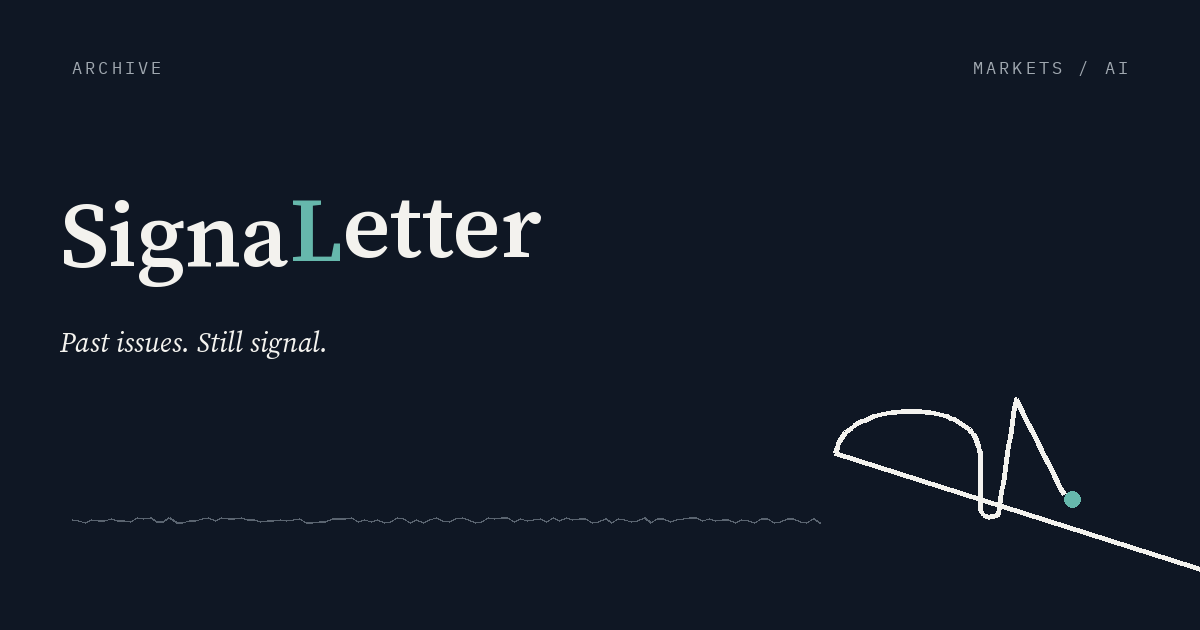
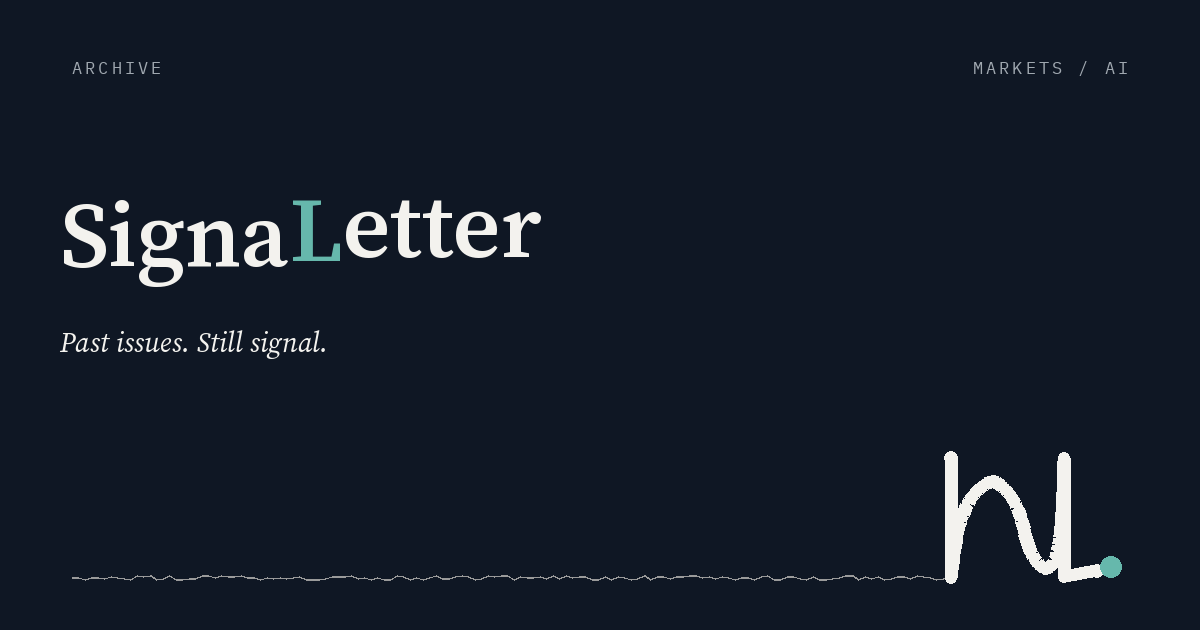
Fix SignaLetter mark path to match PDF crops
Retrace the nL mark from mark-paper.png (cubic beziers, IoU 0.965),
reuse one master path for all brand/favicon variants, and rebuild OG
cards so the bottom noise line flows into the mark with no stray diagonal.

diff --git a/_layouts/default.html b/_layouts/default.html
@@ -10,18 +10,18 @@
   <meta name="apple-mobile-web-app-title" content="{{ site.title }}">
   {% include social-meta.html %}
   <link rel="manifest" href="{{ '/site.webmanifest' | relative_url }}">
-  <link rel="icon" href="{{ '/assets/icons/favicon.svg' | relative_url }}?v=4" type="image/svg+xml">
-  <link rel="icon" href="{{ '/assets/icons/favicon.ico' | relative_url }}?v=4" sizes="any">
-  <link rel="apple-touch-icon" href="{{ '/assets/icons/apple-touch-icon.png' | relative_url }}?v=4">
-  <link rel="icon" type="image/png" sizes="192x192" href="{{ '/assets/icons/icon-192.png' | relative_url }}?v=4">
-  <link rel="icon" type="image/png" sizes="512x512" href="{{ '/assets/icons/icon-512.png' | relative_url }}?v=4">
-  <link rel="stylesheet" href="{{ '/assets/css/fonts.css' | relative_url }}?v=4">
-  <link rel="stylesheet" href="{{ '/assets/css/style.css' | relative_url }}?v=4">
+  <link rel="icon" href="{{ '/assets/icons/favicon.svg' | relative_url }}?v=5" type="image/svg+xml">
+  <link rel="icon" href="{{ '/assets/icons/favicon.ico' | relative_url }}?v=5" sizes="any">
+  <link rel="apple-touch-icon" href="{{ '/assets/icons/apple-touch-icon.png' | relative_url }}?v=5">
+  <link rel="icon" type="image/png" sizes="192x192" href="{{ '/assets/icons/icon-192.png' | relative_url }}?v=5">
+  <link rel="icon" type="image/png" sizes="512x512" href="{{ '/assets/icons/icon-512.png' | relative_url }}?v=5">
+  <link rel="stylesheet" href="{{ '/assets/css/fonts.css' | relative_url }}?v=5">
+  <link rel="stylesheet" href="{{ '/assets/css/style.css' | relative_url }}?v=5">
   <link rel="stylesheet" href="{{ '/assets/css/ai-skim.css' | relative_url }}">
-  <link rel="stylesheet" href="{{ '/assets/css/ai-cards.css' | relative_url }}?v=4">
-  <link rel="stylesheet" href="{{ '/assets/css/nav.css' | relative_url }}?v=4">
+  <link rel="stylesheet" href="{{ '/assets/css/ai-cards.css' | relative_url }}?v=5">
+  <link rel="stylesheet" href="{{ '/assets/css/nav.css' | relative_url }}?v=5">
   <link rel="stylesheet" href="{{ '/assets/css/share.css' | relative_url }}">
-  <link rel="stylesheet" href="{{ '/assets/css/markets.css' | relative_url }}?v=4">
+  <link rel="stylesheet" href="{{ '/assets/css/markets.css' | relative_url }}?v=5">
   <link rel="alternate" type="application/atom+xml" title="{{ site.title }}" href="{{ '/feed.xml' | relative_url }}">
 </head>
 <body class="layout-{{ page.layout | default: 'default' }}{% if page.topic or page.section %} has-section-nav{% endif %}">
@@ -66,7 +66,7 @@
   <script src="{{ '/assets/js/share.js' | relative_url }}?v=2" defer></script>
   <script src="{{ '/assets/js/ai-cards.js' | relative_url }}?v=2" defer></script>
   <script src="{{ '/assets/js/ai-skim.js' | relative_url }}" defer></script>
-  <script src="{{ '/assets/js/section-nav.js' | relative_url }}?v=4" defer></script>
+  <script src="{{ '/assets/js/section-nav.js' | relative_url }}?v=5" defer></script>
   <script src="{{ '/assets/js/archive.js' | relative_url }}" defer></script>
   <script
     src="https://cdn.jsdelivr.net/npm/chart.js@4.4.6/dist/chart.umd.min.js"

diff --git a/scripts/generate_og.py b/scripts/generate_og.py
@@ -1,10 +1,11 @@
 #!/usr/bin/env python3
-"""Generate SignaLetter Open Graph cards (1200×630) — Direction C share style."""
+"""Generate SignaLetter Open Graph cards (1200×630) matching brand PDF page 6."""
 
 from __future__ import annotations
 
 import math
 import random
+import re
 from pathlib import Path
 
 from PIL import Image, ImageDraw, ImageFont
@@ -12,15 +13,28 @@ from PIL import Image, ImageDraw, ImageFont
 ROOT = Path(__file__).resolve().parents[1]
 OUT = ROOT / "assets" / "og"
 FONTS = Path(__file__).resolve().parent / "fonts"
+BRAND = ROOT / "assets" / "brand"
 
 INK = (15, 23, 36)  # #0F1724
 PAPER = (243, 242, 238)  # #F3F2EE
-TEAL_MUTED = (47, 122, 117)  # #2F7A75 — sampled from brand PDF
 TEAL_LIGHT = (102, 184, 172)  # #66B8AC — on dark
 META = (160, 168, 176)
-NOISE = (90, 100, 112)
+NOISE_COL = (154, 154, 154)  # #9A9A9A
 
 W, H = 1200, 630
+
+# Master path fitted to mark-paper.png (viewBox 0..549 × 0..548)
+MASTER_PATH = (
+    "M157 151 L157 402 "
+    "C169.0 268.0 194.0 219.0 245 200 "
+    "C325.0 241.0 294.0 352.0 355 385 "
+    "C386.0 368.0 387.0 309.0 393 152 "
+    "L393 400 L461 388"
+)
+MASTER_SW = 26.5
+MASTER_TEAL = (490.77, 379.84)
+MASTER_TEAL_R = 22.0
+MASTER_VB = (549.0, 548.0)
 
 
 def font(name: str, size: int) -> ImageFont.FreeTypeFont:
@@ -30,14 +44,53 @@ def font(name: str, size: int) -> ImageFont.FreeTypeFont:
             "SourceSerif4-Semibold.ttf": "/tmp/SourceSerif4-Semibold.ttf",
             "SourceSerif4-It.ttf": "/tmp/SourceSerif4-It.ttf",
             "IBMPlexMono-Regular.ttf": "/usr/share/fonts/truetype/ibm-plex/IBMPlexMono-Regular.ttf",
-            "IBMPlexMono-Light.ttf": "/usr/share/fonts/truetype/ibm-plex/IBMPlexMono-Light.ttf",
         }
         path = Path(alts.get(name, str(path)))
     return ImageFont.truetype(str(path), size)
 
 
+def parse_path(d: str) -> list[tuple[str, list[float]]]:
+    """Parse a simple SVG path of M/L/C commands into segments."""
+    tokens = re.findall(r"[MLC]|[-+]?(?:\d+\.?\d*|\.\d+)(?:[eE][-+]?\d+)?", d)
+    segs: list[tuple[str, list[float]]] = []
+    i = 0
+    while i < len(tokens):
+        cmd = tokens[i]
+        i += 1
+        nums: list[float] = []
+        while i < len(tokens) and tokens[i] not in "MLC":
+            nums.append(float(tokens[i]))
+            i += 1
+        segs.append((cmd, nums))
+    return segs
+
+
+def sample_path(d: str, n_per_cubic: int = 32) -> list[tuple[float, float]]:
+    segs = parse_path(d)
+    pts: list[tuple[float, float]] = []
+    cx = cy = 0.0
+    for cmd, nums in segs:
+        if cmd == "M":
+            cx, cy = nums[0], nums[1]
+            pts.append((cx, cy))
+        elif cmd == "L":
+            cx, cy = nums[0], nums[1]
+            pts.append((cx, cy))
+        elif cmd == "C":
+            x1, y1, x2, y2, x3, y3 = nums
+            x0, y0 = cx, cy
+            for i in range(1, n_per_cubic + 1):
+                t = i / n_per_cubic
+                u = 1 - t
+                x = u**3 * x0 + 3 * u**2 * t * x1 + 3 * u * t**2 * x2 + t**3 * x3
+                y = u**3 * y0 + 3 * u**2 * t * y1 + 3 * u * t**2 * y2 + t**3 * y3
+                pts.append((x, y))
+            cx, cy = x3, y3
+    return pts
+
+
 def noise_polyline(
-    x0: float, x1: float, y: float, amp: float = 3.2, step: float = 7.0, seed: int = 7
+    x0: float, x1: float, y: float, amp: float = 2.6, step: float = 7.0, seed: int = 11
 ) -> list[tuple[float, float]]:
     rng = random.Random(seed)
     pts = []
@@ -50,80 +103,6 @@ def noise_polyline(
     return pts
 
 
-def draw_signal_mark(d: ImageDraw.ImageDraw, y: float = 520) -> None:
-    """Long noise → nL signal stroke → teal dot (page-6 share card)."""
-    left = 72
-    right = W - 72
-    mark_start = 820
-    flat_end = right - 36
-
-    # Noise before mark
-    pts = noise_polyline(left, mark_start, y, amp=2.8, step=6.5, seed=11)
-    d.line(pts, fill=NOISE, width=2, joint="curve")
-
-    # nL mark scaled from 64-unit brand path into pixel space
-    # Brand SIGNAL_D in 64 viewBox → map into [mark_start, flat_end] × height
-    # Path: left stem, n-arch, valley, tall L peak, diagonal to teal
-    x0 = mark_start
-    scale_x = (flat_end - 28 - mark_start) / (56 - 15.2)
-    scale_y = 3.6  # px per viewBox unit
-
-    def X(u: float) -> float:
-        return x0 + (u - 15.2) * scale_x
-
-    def Y(v: float) -> float:
-        return y + (v - 44) * scale_y
-
-    # Approximate the SVG path with polylines for Pillow
-    # Left stem + n arch
-    arch = []
-    # Lead-in from noise
-    arch.append((X(15.2), Y(44)))
-    arch.append((X(17.8), Y(44)))
-    # Left stem up
-    for t in range(0, 11):
-        yy = 44 - (44 - 26.5) * (t / 10)
-        arch.append((X(17.8), Y(yy)))
-    # n-arch cubic approx: C17.8 18.8, 23.5 13.8, 30.5 13.8 then C37.2 13.8, 42 18.5, 42 26.5
-    def cubic(p0, p1, p2, p3, n=24):
-        out = []
-        for i in range(n + 1):
-            t = i / n
-            u = 1 - t
-            x = u**3 * p0[0] + 3 * u**2 * t * p1[0] + 3 * u * t**2 * p2[0] + t**3 * p3[0]
-            yv = u**3 * p0[1] + 3 * u**2 * t * p1[1] + 3 * u * t**2 * p2[1] + t**3 * p3[1]
-            out.append((x, yv))
-        return out
-
-    p0 = (17.8, 26.5)
-    arch += cubic(p0, (17.8, 18.8), (23.5, 13.8), (30.5, 13.8))[1:]
-    arch += cubic((30.5, 13.8), (37.2, 13.8), (42, 18.5), (42, 26.5))[1:]
-    # Down toward valley
-    for t in range(1, 11):
-        yy = 26.5 + (40 - 26.5) * (t / 10)
-        arch.append((42, yy))
-    # Valley curve into L rise: C42 43, 43.2 44, 45 42.5 then L48 10.5 L56 37
-    arch += cubic((42, 40), (42, 43), (43.2, 44), (45, 42.5))[1:]
-    # Up to L peak
-    for t in range(1, 16):
-        xx = 45 + (48 - 45) * (t / 15)
-        yy = 42.5 + (10.5 - 42.5) * (t / 15)
-        arch.append((xx, yy))
-    # Diagonal to teal approach
-    for t in range(1, 16):
-        xx = 48 + (56 - 48) * (t / 15)
-        yy = 10.5 + (37 - 10.5) * (t / 15)
-        arch.append((xx, yy))
-
-    pix = [(X(x), Y(yv)) for x, yv in arch]
-    d.line(pix, fill=PAPER, width=5, joint="curve")
-
-    # Teal signal dot
-    tx, ty = X(57.5), Y(38.2)
-    r = 8
-    d.ellipse([tx - r, ty - r, tx + r, ty + r], fill=TEAL_LIGHT)
-
-
 def draw_tracked(
     d: ImageDraw.ImageDraw,
     xy: tuple[float, float],
@@ -133,7 +112,6 @@ def draw_tracked(
     tracking: float = 3.5,
     anchor: str = "lt",
 ) -> None:
-    """Draw uppercase mono with letter-spacing."""
     x, y = xy
     widths = []
     for ch in text:
@@ -142,18 +120,14 @@ def draw_tracked(
     total = sum(widths) + tracking * max(0, len(text) - 1)
     if anchor == "rt":
         x = x - total
-    elif anchor == "mt":
-        x = x - total / 2
     for ch, w in zip(text, widths):
         d.text((x, y), ch, font=font_obj, fill=fill)
         x += w + tracking
 
 
-def draw_wordmark(d: ImageDraw.ImageDraw, y: float = 210) -> None:
-    """SignaLetter — semibold, muted-teal L (left-aligned like page 6)."""
+def draw_wordmark(d: ImageDraw.ImageDraw, y: float = 200) -> None:
     brand = font("SourceSerif4-Semibold.ttf", 92)
     left = 60
-    # Draw in three pieces so L can be teal
     parts = [("Signa", PAPER), ("L", TEAL_LIGHT), ("etter", PAPER)]
     x = left
     for text, fill in parts:
@@ -162,12 +136,43 @@ def draw_wordmark(d: ImageDraw.ImageDraw, y: float = 210) -> None:
         x = bbox[2]
 
 
-def draw_card(
-    path: Path,
-    top_left: str,
-    top_right: str,
-    tagline: str,
-) -> None:
+def draw_signal_mark(d: ImageDraw.ImageDraw) -> None:
+    """Long grey noise along the bottom → master nL mark at bottom-right (~120px tall).
+
+    Placement tuned to raw-001.jpg share card: teal ≈ (1111, 567) on 1200×630.
+    """
+    # ~120px tall on 1200×630 (master left-stem span 151→402)
+    mark_h = 120.0
+    scale = mark_h / (402 - 151)
+    # Anchor by teal position from raw-001 (scaled to 1200×630)
+    teal_target = (1111.0, 567.0)
+    ox = teal_target[0] - MASTER_TEAL[0] * scale
+    oy = teal_target[1] - MASTER_TEAL[1] * scale
+
+    def X(u: float) -> float:
+        return ox + u * scale
+
+    def Y(v: float) -> float:
+        return oy + v * scale
+
+    # Noise from left margin into left-stem foot (no stray diagonals)
+    foot_x, foot_y = X(157), Y(402)
+    noise_pts = noise_polyline(72, foot_x, foot_y, amp=2.4, step=6.5, seed=11)
+    d.line(noise_pts, fill=NOISE_COL, width=2, joint="curve")
+
+    pts = [(X(x), Y(y)) for x, y in sample_path(MASTER_PATH)]
+    sw = max(3, int(round(MASTER_SW * scale)))
+    d.line(pts, fill=PAPER, width=sw, joint="curve")
+    r = sw / 2
+    for p in (pts[0], pts[-1]):
+        d.ellipse([p[0] - r, p[1] - r, p[0] + r, p[1] + r], fill=PAPER)
+
+    tx, ty = X(MASTER_TEAL[0]), Y(MASTER_TEAL[1])
+    tr = MASTER_TEAL_R * scale
+    d.ellipse([tx - tr, ty - tr, tx + tr, ty + tr], fill=TEAL_LIGHT)
+
+
+def draw_card(path: Path, top_left: str, top_right: str, tagline: str) -> None:
     img = Image.new("RGB", (W, H), INK)
     d = ImageDraw.Draw(img)
 
@@ -180,7 +185,7 @@ def draw_card(
     italic = font("SourceSerif4-It.ttf", 28)
     d.text((60, 330), tagline, font=italic, fill=PAPER, anchor="lt")
 
-    draw_signal_mark(d, y=520)
+    draw_signal_mark(d)
 
     path.parent.mkdir(parents=True, exist_ok=True)
     img.save(path, "PNG", optimize=True)
@@ -189,7 +194,6 @@ def draw_card(
 
 
 def main() -> None:
-    # Sydney is on daylight time (AEDT) — prefer AEDT or SYDNEY, not AEST
     daily = "DAILY · 08:25 AEDT"
     cards = [
         (

diff --git a/assets/brand/README.md b/assets/brand/README.md
@@ -1,19 +1,19 @@
 # SignaLetter — Direction C
 
-Wordmark: **SignaLetter** (Source Serif 4). Primary = semibold with muted-teal **L**;
-secondary = regular, ink only. Domain stays `signaletter.si`.
+Wordmark: **SignaLetter** (Source Serif 4). Primary = semibold with muted-teal **L**.
+Domain stays `signaletter.si`.
 
 | File | Use |
 |------|-----|
-| `mark-full.svg` | Full mark (noise + nL signal + teal dot) on paper |
-| `mark-small.svg` | Small cut (signal + teal, no noise) for tiny sizes |
-| `mark-app-ink.svg` | App icon on ink (header light mode, PWA) |
-| `mark-app-paper.svg` | App icon on paper (dark-mode header) |
-| `mark-one-colour.svg` | One-colour cut (paper stroke on ink, teal dot) |
+| `mark-full.svg` | Full mark on paper |
+| `mark-small.svg` | Small cut (no noise) |
+| `mark-app-ink.svg` | App icon on ink |
+| `mark-app-paper.svg` | App icon on paper |
+| `mark-one-colour.svg` | Black + white stroke + teal dot |
 
-Palette: Ink `#0F1724`, Paper `#F3F2EE`, muted teal `#2F7A75`, teal on dark `#66B8AC`.
+Palette: Ink `#0F1724`, Paper `#F3F2EE`, muted teal `#2F7A75`, teal on dark `#66B8AC`, noise `#9A9A9A`.
 
-The mark paths were **redrawn** to match PDF pages 5–6 (PDF embeds rasters only — no extractable vectors).
+Mark paths fitted to PDF crops (cubic beziers). PDF pages are raster-only.
 
 ```bash
 python3 scripts/generate_brand.py
